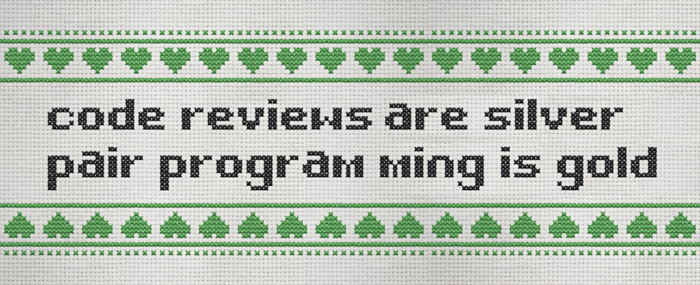
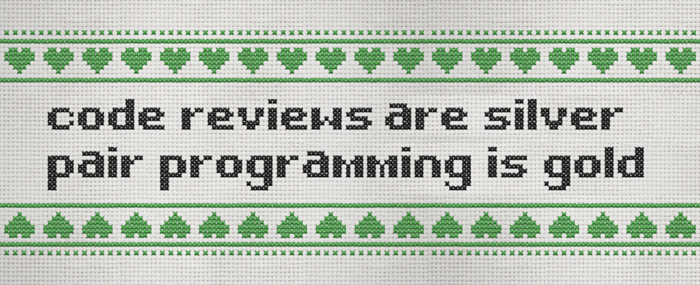
one more hard earned lesson; fixed layout glitch with stitch gfx

Changed region(s): [[0.51, 0.5053, 0.96, 0.6737]]

diff --git a/part3.html b/part3.html
@@ -29,12 +29,25 @@
 
 <div class="placeholder">
     todo
+    axios
+    makara
+    freshy
 </div>
 
 <p><img src="./data/mediapool/cross-stitch-early-prod_700x334.png" alt="Run your app in production as early as possible" width="700" height="334"></p>
 
 <div class="placeholder">
     todo
+</div>
+
+<p><img src="./data/mediapool/cross-stitch-experiment_700x266.png" alt="Experiment and explore with good measure" width="700" height="266"></p>
+
+<div class="placeholder">
+    todo
+    gulp
+    es6
+    using webpack for backend
+    kraken – could have used old stable version of framework
 </div>
 
 <p><img src="./data/mediapool/cross-stitch-pairing_700x285.png" alt="Code reviews are silver, pair programming is gold" width="700" height="285"></p>
